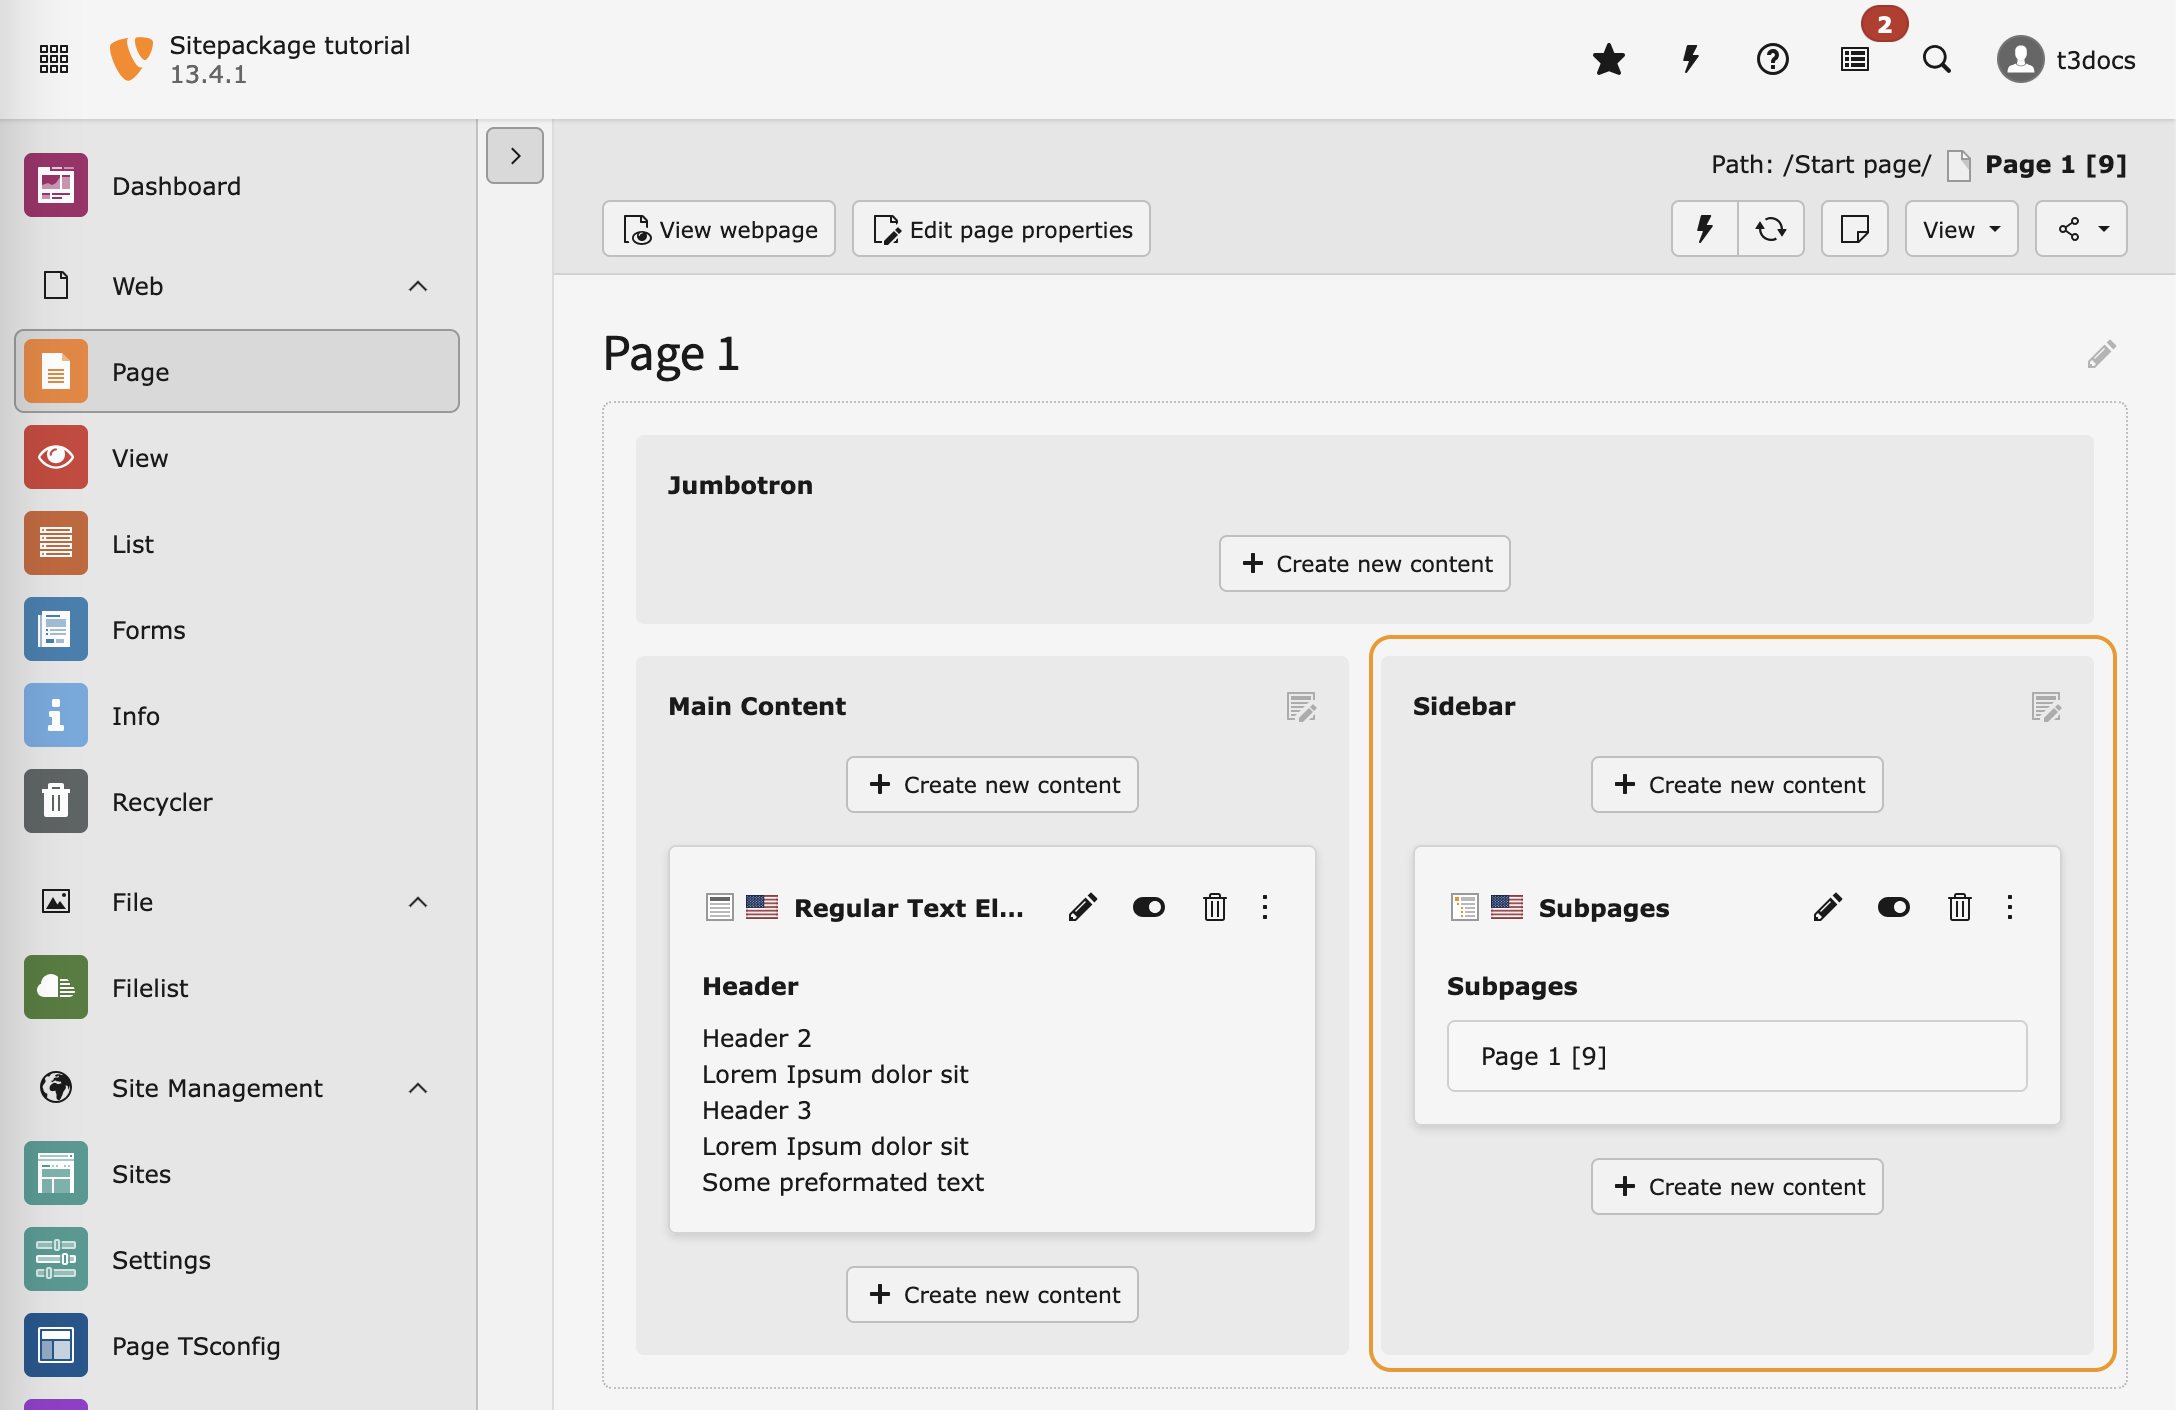
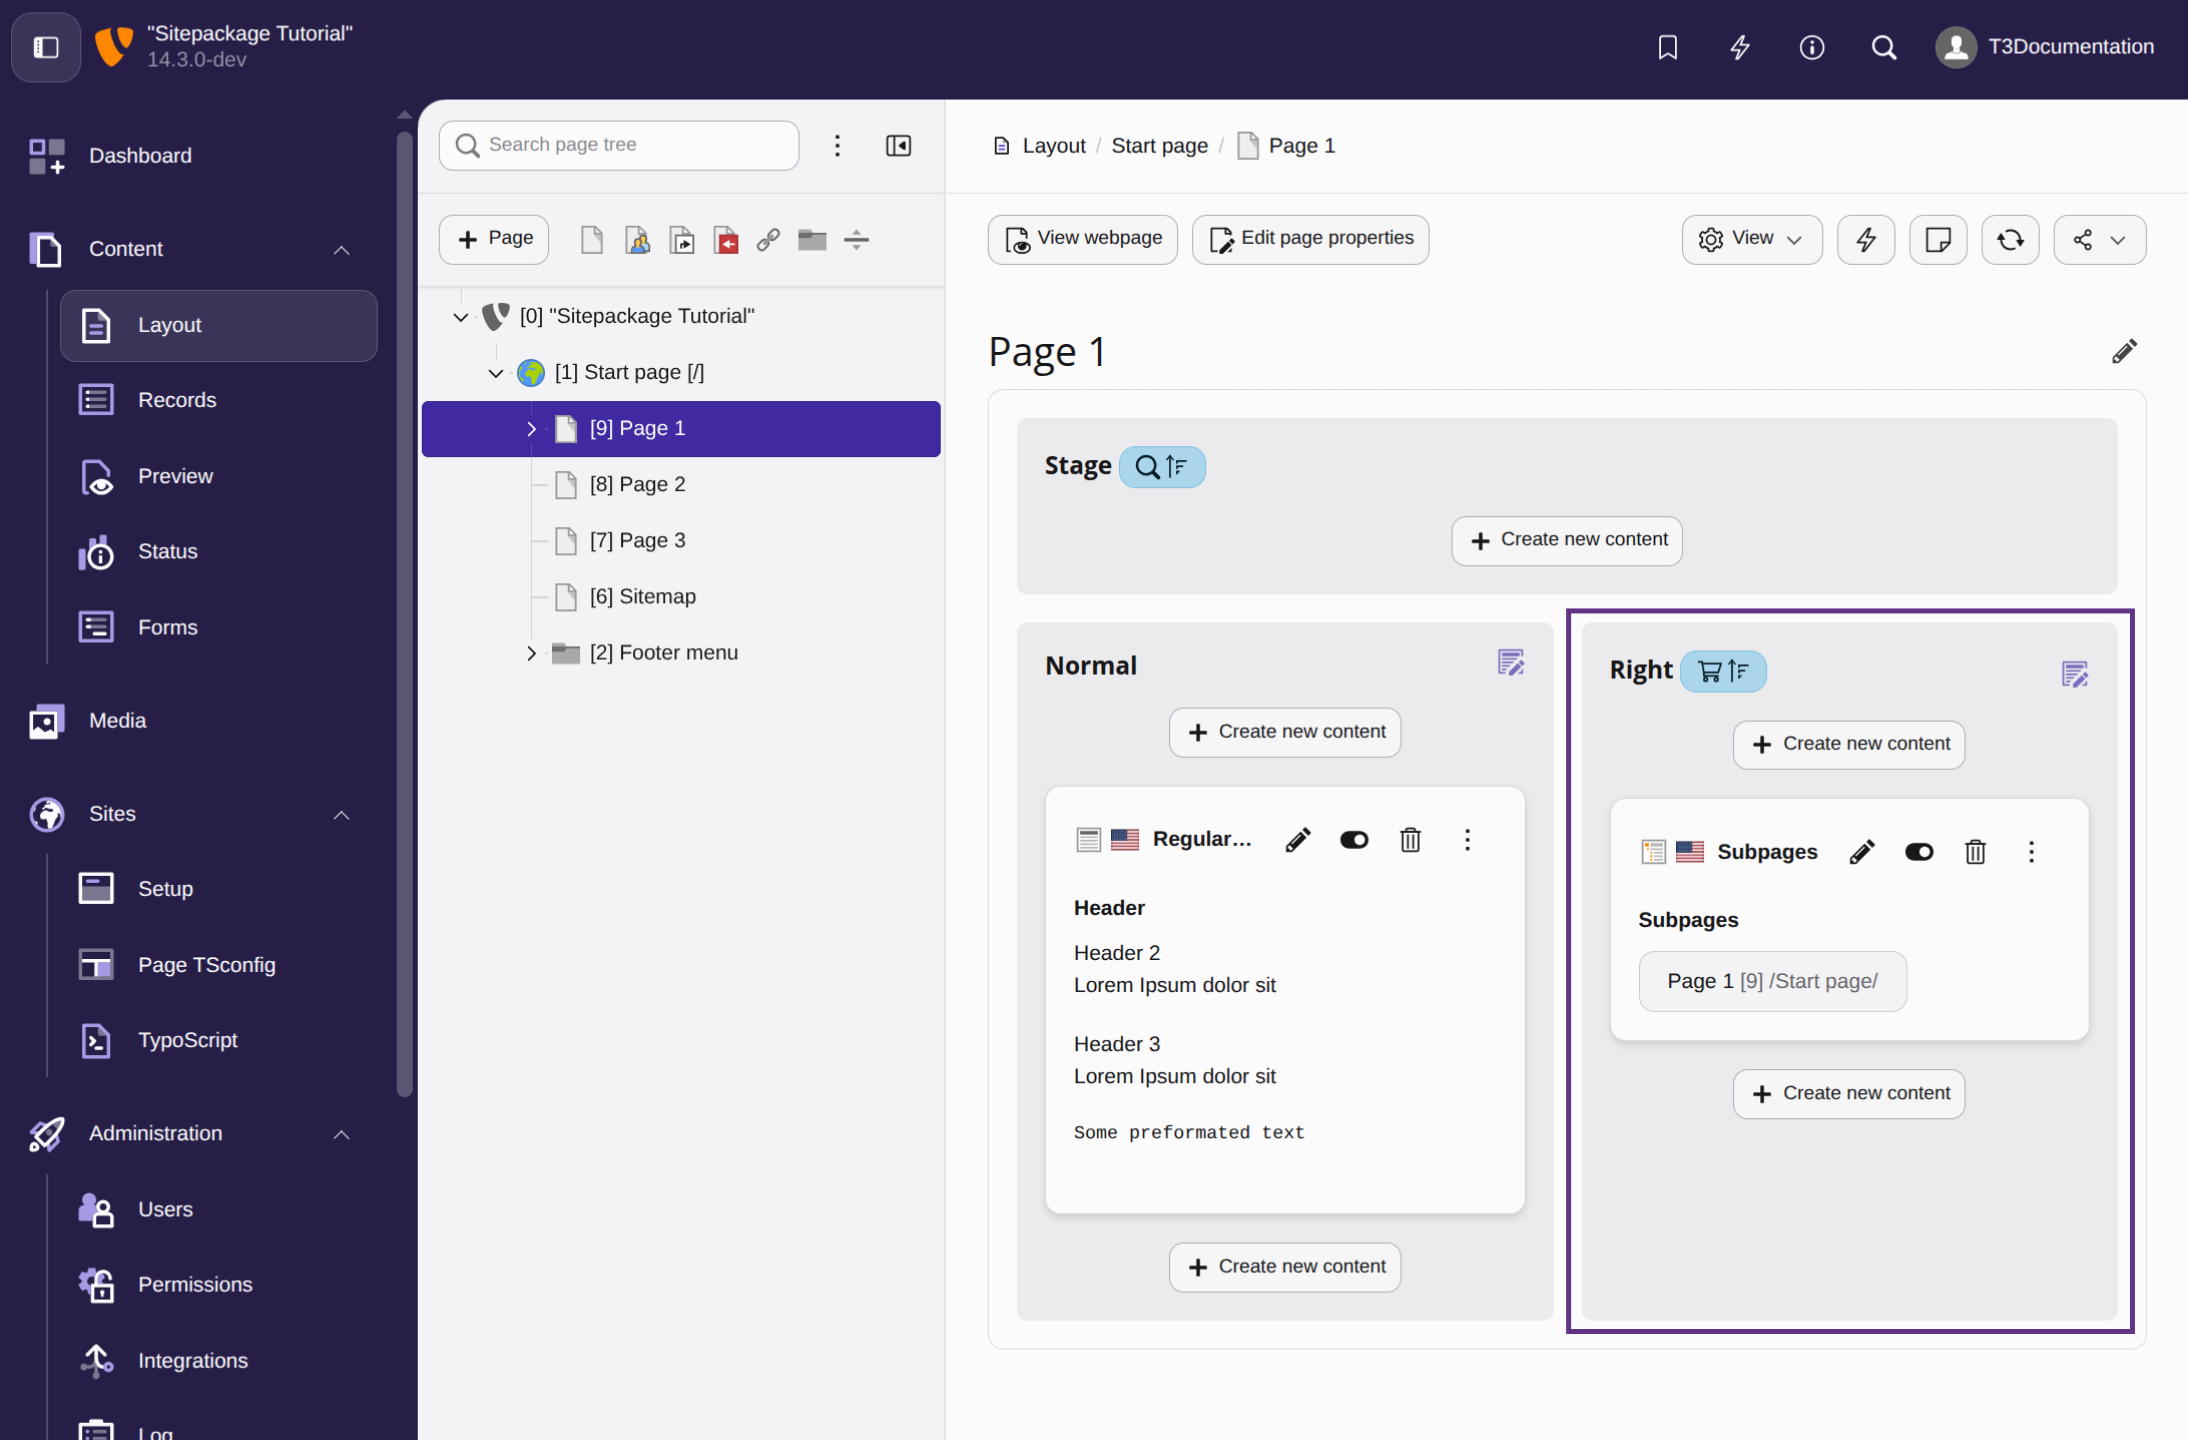
[DOCS] Update "content mapping - subpage layout" section (#402)

diff --git a/Documentation/ContentMapping/SubpageLayout.rst b/Documentation/ContentMapping/SubpageLayout.rst
@@ -37,32 +37,32 @@ containing :ref:`page TSconfig <t3tsref:setting-page-tsconfig>`. :
 .. _cm-switch_backend_layout:
 
 Switch to the two column layout with a sidebar for subpages
-==========================================================
+===========================================================
 
-You can now use the `Two Column` backend layout for the `Start page` subpages
+You can now use the "Subpage" backend layout for the `Start page` subpages
 at :guilabel:` Appearance >  Layout > Backend Layout`.
 Edit the page properties of `Start page` to use the backend layout
-"Two Columns" for subpages.
+"Subpage" for subpages.
 
 ..  figure:: /Images/ContentMapping/SwitchBackendLayoutForSubpages.png
     :zoom: gallery
-    :alt: Switch to the Backend Layout "Two Columns" for subpages
+    :alt: Switch to the backend layout "Subpage" for subpages
 
-    Switch to the Backend Layout "Two Columns" for subpages
+    Switch to the backend layout "Subpage" for subpages
 
-After saving you will be able to see on "Page 1" that the content of the columns "main" and
-"stage" remains unchanged while there is a third column "sidebar".
-This is due to the fact that the backend layout "Default" and "TwoColumns"
+After saving you will be able to see on "Page 1" that the content of the columns "Normal" and
+"Stage" remains unchanged while there is a third column "Right".
+This is due to the fact that the backend layout "Default" and "Subpage"
 use the same colPos number for these columns.
 
-The pages generated in step Create initial pages already contain
-"Menu of subpages" an example content in "sidebar" column.
+The pages generated in step "Create initial pages" already contain
+"Menu of subpages" an example content in "Right" column.
 
 ..  figure:: /Images/ContentMapping/BackendLayoutTwoColumns.png
     :zoom: gallery
-    :alt: A new column "Sidebar" appears
+    :alt: A new column "Right" appears
 
-    A new column "Sidebar" appears
+    A new column "Right" appears
 
 
 Preview the page once more. A sidebar will appear in the frontend:
